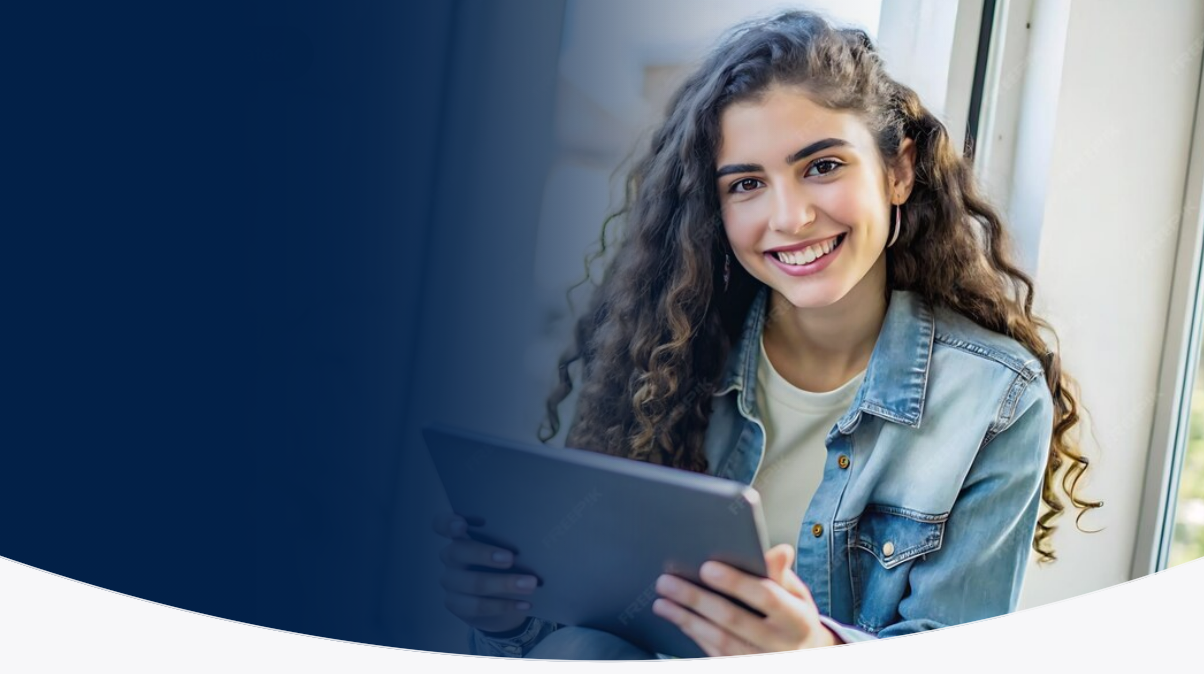
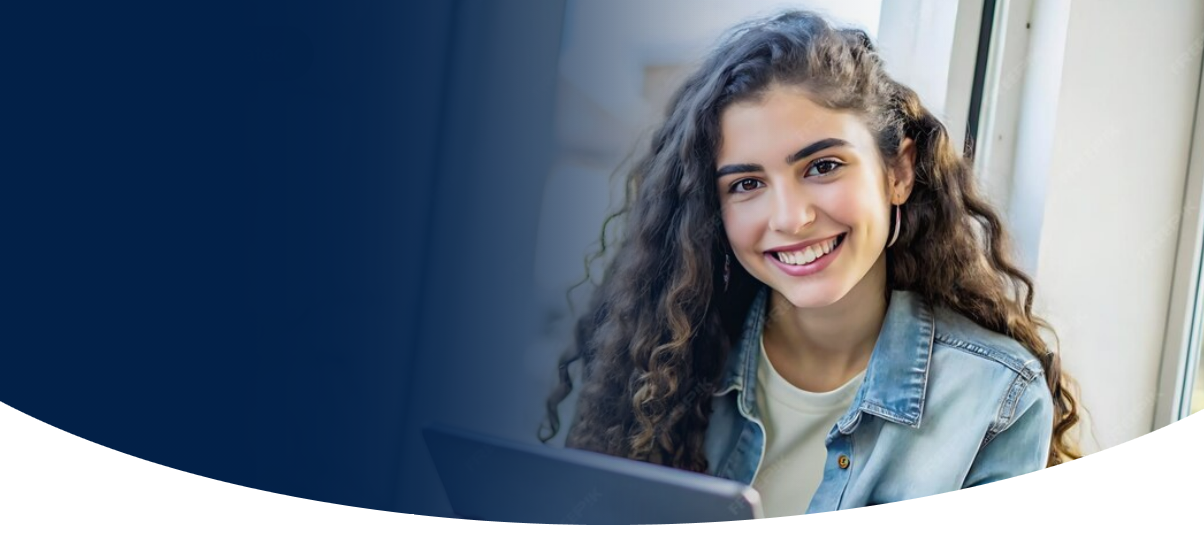
Anpassung des Hintergrundbildes
Die Größe und Ausrichtung wurde angepasst, damit es besser zum Gesamtbild passt

Changed region(s): [[0.3073, 0.0, 1.0, 0.9869], [0.0, 0.7477, 0.3073, 0.957]]

diff --git a/index.html b/index.html
@@ -10,7 +10,7 @@
 <header class="hero">
     <div class="headerBar">
         <div class="logo">
-            <img src="../images/BrightBoost_Logo.png" alt="BrightBoost Logo">
+            <img src="../images/BrightBoost_Logo.png" alt="BrightBoost Logo" class="logo img">
             <strong>BrightBoost</strong>
         </div>
 
@@ -39,42 +39,48 @@
 <main>
 
     <!-- Our Services -->
-    <section class="headline">
-        <div class="sectionHeader">
-            <hr class="line">
-            <strong>Our Services</strong>
-            <hr class="line">
-        </div>
-    </section>
+     <div class="ourServices">
+        <section class="headline">
+            <div class="sectionHeader">
+                <hr class="line">
+                <strong>Our Services</strong>
+                <hr class="line">
+            </div>
+        </section>
 
-    <section class="content">
-        <div class="tile">
-            <img class="icon" src="../images/search_icon.svg" alt="SEO Icon">
-            <strong>SEO Optimization</strong>
-            <p class="highlights">
-                Lorem ipsum dolor sit amet, consectetur adipiscing elit...
-            </p>
-            <a href="#">Read more ></a>
-        </div>
+        <section class="content">
+            <div class="tile">
+                <img class="icon" src="../images/search_icon.svg" alt="SEO Icon">
+                <br>
+                <strong>SEO Optimization</strong>
+                <p class="highlights">
+                    Lorem ipsum dolor sit amet, consectetur adipiscing elit...
+                </p>
+                <a href="#">Read more ></a>
+            </div>
 
-        <div class="tile">
-            <img class="icon" src="../images/speech_icon.svg" alt="Social Media Icon">
-            <strong>Social Media Marketing</strong>
-            <p class="highlights">
-                Lorem ipsum dolor sit amet, consectetur adipiscing elit...
-            </p>
-            <a href="#">Read more ></a>
-        </div>
+            <div class="tile">
+                <img class="icon" src="../images/speech_icon.svg" alt="Social Media Icon">
+                <br>
+                <strong>Social Media Marketing</strong>
+                <p class="highlights">
+                    Lorem ipsum dolor sit amet, consectetur adipiscing elit...
+                </p>
+                <a href="#">Read more ></a>
+            </div>
 
-        <div class="tile">
-            <img class="icon" src="../images/social_icon.svg" alt="PPC Icon">
-            <strong>PPC Advertising</strong>
-            <p class="highlights">
-                Lorem ipsum dolor sit amet, consectetur adipiscing elit...
-            </p>
-            <a href="#">Read more ></a>
-        </div>
-    </section>
+            <div class="tile">
+                <img class="icon" src="../images/social_icon.svg" alt="PPC Icon">
+                <br>
+                <strong>PPC Advertising</strong>
+                <p class="highlights">
+                    Lorem ipsum dolor sit amet, consectetur adipiscing elit...
+                </p>
+                <a href="#">Read more ></a>
+            </div>
+        </section>
+     </div>
+    
 
     <!-- Why Choose Us -->
      <div class="whyChooseUs">
@@ -93,29 +99,29 @@
         <section class="content">
             <div class="tile2">
                 <img class="icon" src="../images/check_icon.png" alt="">
+                <br>
                 <strong>Proven Results</strong>
                 <p class="highlights">
                     Increase Your Traffic & Sales
                 </p>
-                <a href="#">Read more ></a>
             </div>
 
             <div class="tile2">
                 <img class="icon" src="../images/gears_icon.png" alt="">
+                <br>
                 <strong>Custom Solutions</strong>
                 <p class="highlights">
                     Tailored Plans for Your Needs
                 </p>
-                <a href="#">Read more ></a>
             </div>
 
             <div class="tile2">
                 <img class="icon" src="../images/person_icon.png" alt="">
+                <br>
                 <strong>Expert Team</strong>
                 <p class="highlights">
                     Experienced Markeding Professionals
                 </p>
-                <a href="#">Read more ></a>
             </div>
         </section>
 

diff --git a/style.css b/style.css
@@ -1,5 +1,5 @@
 body{
-    background-color: #032148;
+    background-color: white;
     width: 100%;
     margin: 0;
     font-family: Calibri, sans-serif;
@@ -15,6 +15,7 @@ footer{
     color: white;
     text-align: center;
     height: 5px;
+    background-color: #1C3660;
 }
 
 h1{
@@ -108,10 +109,10 @@ h1{
     gap:1px;
     color: #1C3660;
     font-size: 17pt;
+        margin: 3px 0px 15px 0px;
 }
 
 .headline.subtext{
-    margin: 3px 0px 15px 0px;
     font-size: 15pt;
 }
 
@@ -139,7 +140,7 @@ h1{
 
 .tile{
     background-color: white;
-    width: 190px;
+    width: 250px;
     height: 185px;
     border-radius: 5px;
     box-shadow: 3px 3px 3px 3px lightgrey;
@@ -147,7 +148,7 @@ h1{
 
 .tile2{
     background-color: #F6F6F8;
-    width: 190px;
+    width: 250px;
     height: 150px;
     border-radius: 5px;
 }
@@ -156,6 +157,11 @@ h1{
     margin: 12px;
     width: 50px;
     height: 40px;
+}
+
+.ourServices{
+    margin: 40px 0px 0px 0px;
+    padding: 15px 0px 0px 0px;
 }
 
 .whyChooseUs{
